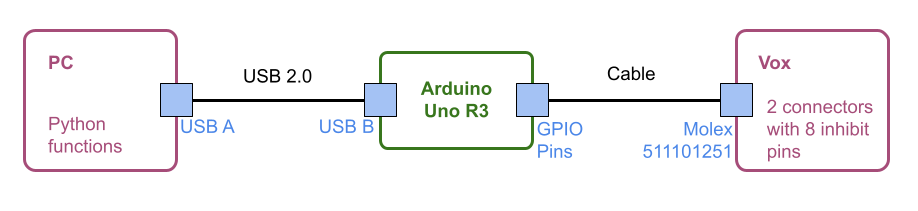
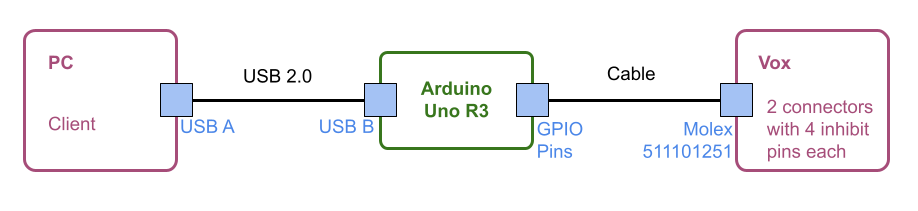
arduino pinout picture

diff --git a/spec-pza-dev-voxpower-inhibiter.md b/spec-pza-dev-voxpower-inhibiter.md
@@ -17,9 +17,9 @@ The connection between the Arduino and the Vox Power **must** be via simple cabl
 
 The connectors for the Vox Power **must** be :
 
-|        | Manufacturer | Housing   | Terminal  |
-| :----- | :----------: | :-------: | :-------: |
-| Output | Molex        | 511101251 | 503948051 |
+| Manufacturer | Housing   | Terminal  |
+| :----------: | :-------: | :-------: |
+| Molex        | 511101251 | 503948051 |
 
 ![connector](pictures/connector.png)
 
@@ -31,22 +31,16 @@ The inhibiter pinout **must** be :
 | :------ | :--: | :--: | :--: | :--: | :--: | :--: | :--: | :--: |
 | Vox     | INH1 | INH2 | INH3 | INH4 | INH5 | INH6 | INH7 | INH8 |
 
+![arduino-pinout](pictures/arduino-pinout.png)
 ![vox-pinout](pictures/vox-pinout.png)
 
-### `[VOX_INHIB_0040_00]` - USB communication
+### `[VOX_INHIB_0040_00]` - USB configuration
 
-The communication **must** be done with a serial link and a baud rate of 115200
+The USB configuration **must** be done with a serial link and a baud rate of 115200
 
-### `[VOX_INHIB_0050_00]` - Software
+### `[VOX_INHIB_0050_00]` - Communication protocol
 
-The command sent by the PC to the Arduino to inhibit and enable a channel **must** be Python functions like :
-```bash
-inhibit(channel)
-
-enable(channel)
-```
-
-that will send bytes to specify the action (inhibit or enable) and the channel :
+The protocol to specify the action (inhibit or enable) and the channel N **must** be :
 ```bash
 "I" N
 
